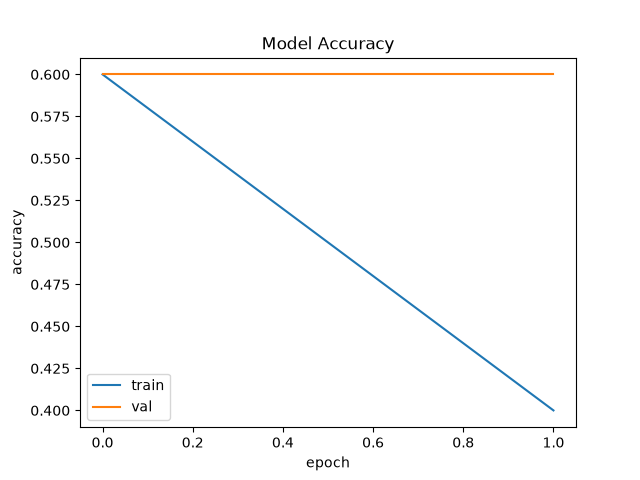
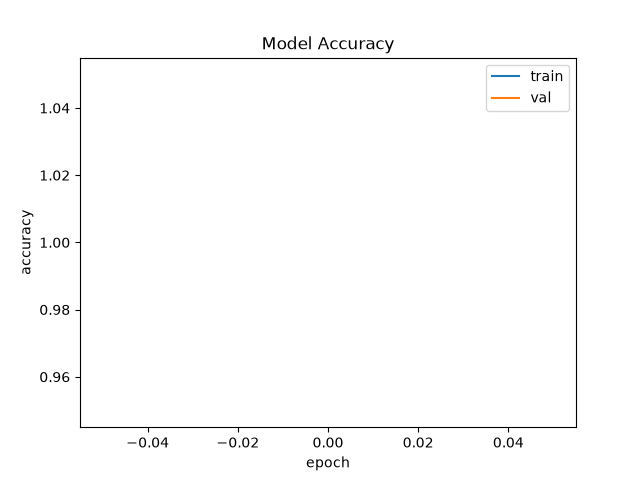
fixes

diff --git a/Pipeline1/LSTMCNN.py b/Pipeline1/LSTMCNN.py
@@ -73,7 +73,7 @@ class LSTMCNN:
         self.numEpochs=epochs
 
         numVideos=1050
-        maxCount=5 #only do 150 videos so the permuations can be on full set that way we randomly get entries and dont just take first batch
+        maxCount=150 #only do 150 videos so the permuations can be on full set that way we randomly get entries and dont just take first batch
         for e in range(epochs):
             
             totalLoss=0
@@ -99,7 +99,7 @@ class LSTMCNN:
                 cArray=[]
                 for f in range(self.frameLengthPV[v]):
                     frame=cp.asarray(self.xTrain[v,f,:,:,:])
-                    frame=frame.astype(cp.float64)
+                    frame=frame.astype(cp.float32)
 
                     #startCNN=time.time()
                     lstmInput=self.spatialExtractor.forward(frame)
@@ -173,7 +173,7 @@ class LSTMCNN:
             print(f"End Time epoch  {e} for {maxCount} vids {timeTake}")     
          
            
-            #self.saveModel(f'Save_Model_epoch_{e}') 
+            self.saveModel(f'Save_Model_epoch_{e}') 
         self.plotCurves()
 
     def predict(self,Xinput,frameLength):
@@ -182,7 +182,7 @@ class LSTMCNN:
                 cArray=[]
                 for f in range(frameLength):
                     frame=cp.asarray(Xinput[f,::])
-                    frame=frame.astype(cp.float64)
+                    frame=frame.astype(cp.float32)
 
                     #startCNN=time.time()
                     lstmInput=self.spatialExtractor.forward(frame)
@@ -196,11 +196,16 @@ class LSTMCNN:
 
                 secondLastOutput=self.classifier1.forward(H)
                 prediction=self.classifier2.forward(secondLastOutput)
+                cArray=[]
+                self.spatialExtractor.resetCacheWeights()
                 return prediction
 
     def saveModel(self,path):
+        state=self.__dict__.copy()
+        state.pop('xTrain',None)
+        state.pop('yTrain',None)
         with open(path,'wb') as f:
-            pickle.dump(self,f)
+            pickle.dump(state,f)
 
     def validation(self,xValid,yValid,xVidLength,visitedVideos,epoch):
         numVideos,numFrames,numRows,numCols,depth=xValid.shape
@@ -260,7 +265,7 @@ class LSTMCNN:
         for v in shuffledIndex:
             v=int(v)
 
-            if counter==5: #temp hardcoded val fix later 
+            if counter==75: #temp hardcoded val fix later 
                  break
 
             p=self.predict(self.xTrain[v],self.frameLengthPV[v])

diff --git a/Pipeline1/PoolLayer.py b/Pipeline1/PoolLayer.py
@@ -71,18 +71,6 @@ class PoolLayer:
 
         np.add.at(dInput,(windowXPos,windowYPos,depthVector),dOutput)
 
-        
-                
-       # for  d in range(outputDepth):
-        #    for r in range(outputHeight):
-         #       for c in range(outputWidth):
-
-          #          index=int(self.maxIndices[r,c,d])
-           #         maxValH,MaxValW=np.unravel_index(np.array(index),(self.filterSize,self.filterSize))
-
-                    #use the row and stride with stored cordinates in the max indicies to update only the activation neuron that needs updating due to the layer after this one
-            #        dInput[r*self.stride+maxValH,c*self.stride+MaxValW,d]+=dOutput[r,c,d]
-
         return dInput
     
 

diff --git a/Pipeline1/test.py b/Pipeline1/test.py
@@ -17,7 +17,7 @@ numClasses=3
 
 LCNN=LSTMCNN(xTrain,yTrain,frameLengthPV,(64,64,3),hiddenSize,numClasses)
 
-LCNN.train(2,0.1)
+LCNN.train(5,0.01)
 
 #with open('Save_Model_epoch_2','rb') as f:
  #           model=pickle.load(f)
